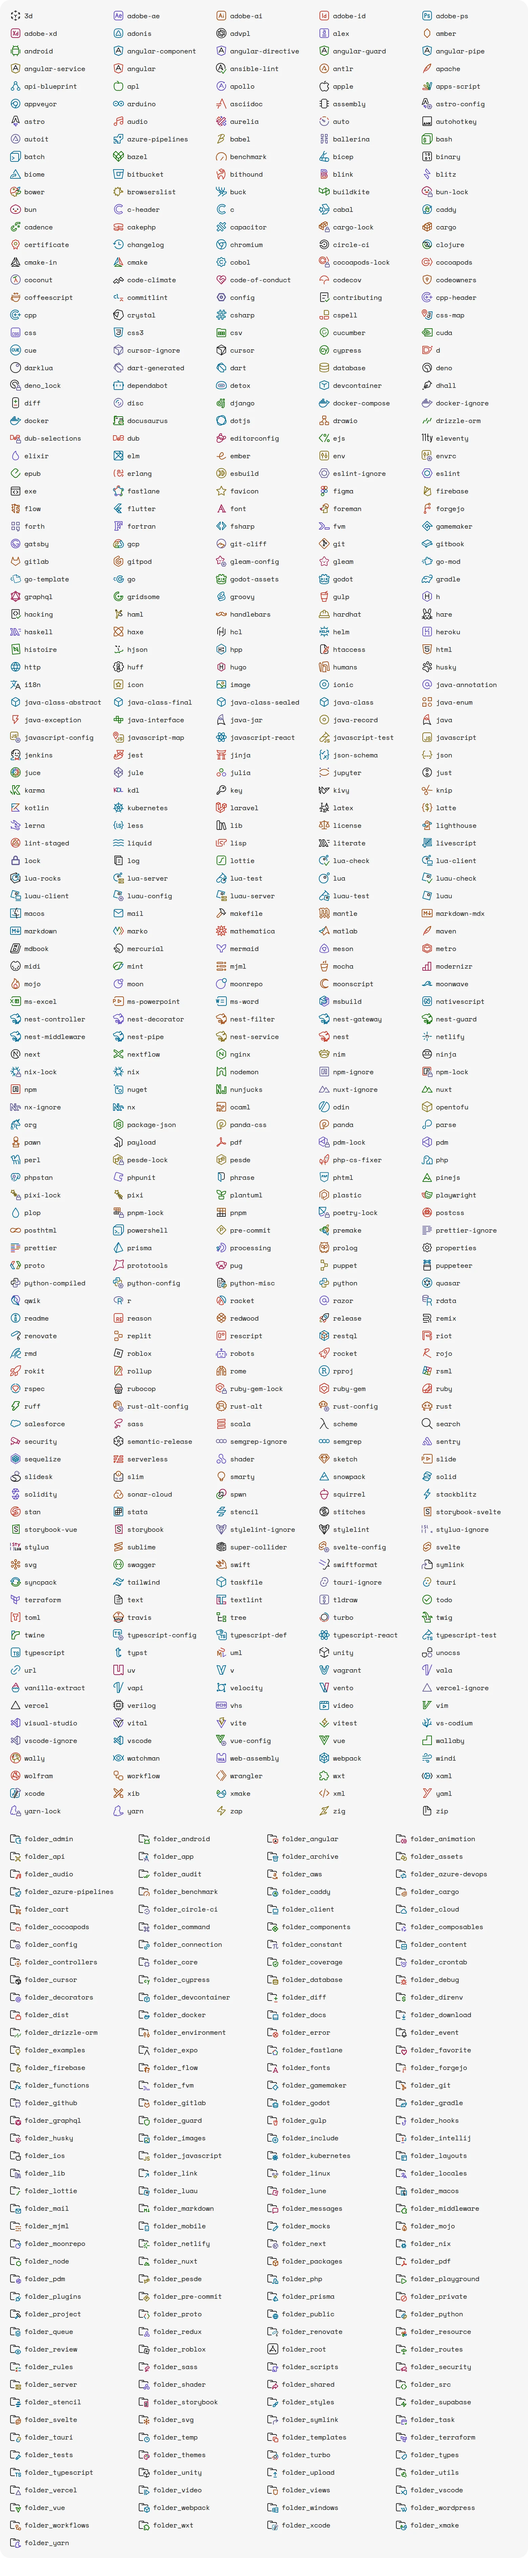
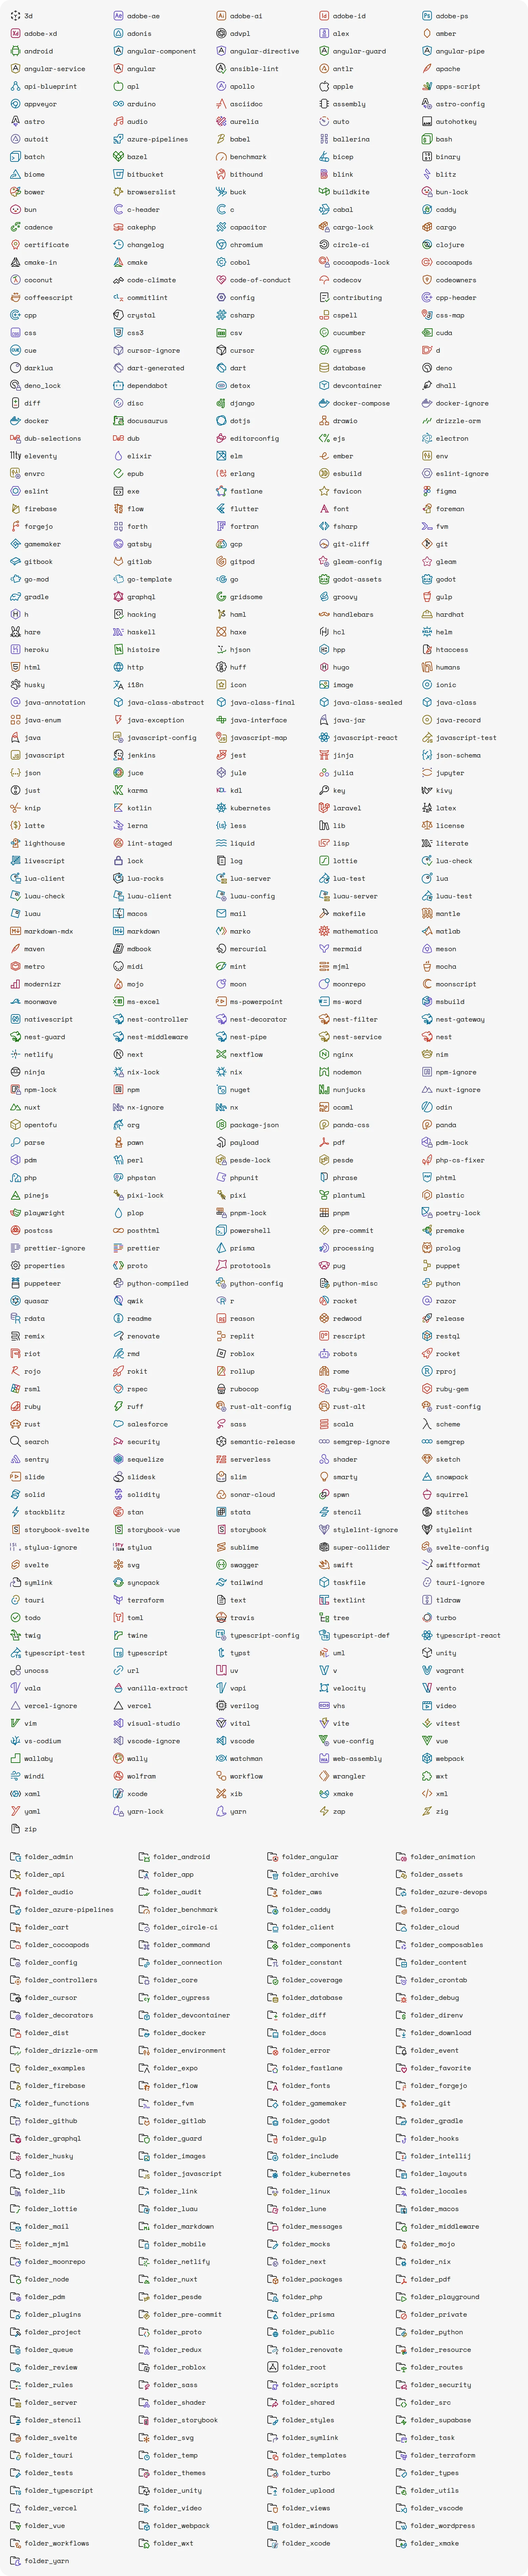
Electron

diff --git a/src/defaults/fileIcons.ts b/src/defaults/fileIcons.ts
@@ -895,6 +895,18 @@ const fileIcons: FileIcons = {
   'ejs': {
     fileExtensions: ['ejs'],
   },
+  'electron': {
+    fileNames: [
+      'electron-builder.json',
+      'electron-forge.json',
+      'electron-builder.yml',
+      'electron-forge.yml',
+      'main.js',
+      'preload.js',
+      'main.ts',
+      'preload.ts',
+    ],
+  },
   'eleventy': {
     fileNames: [
       '.eleventy.js',
